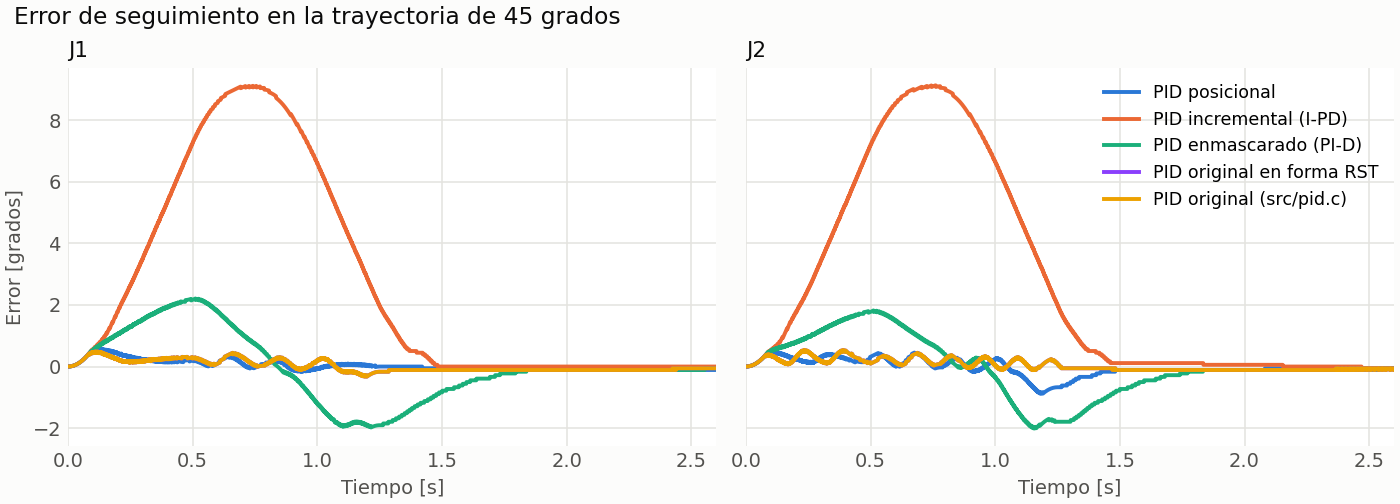
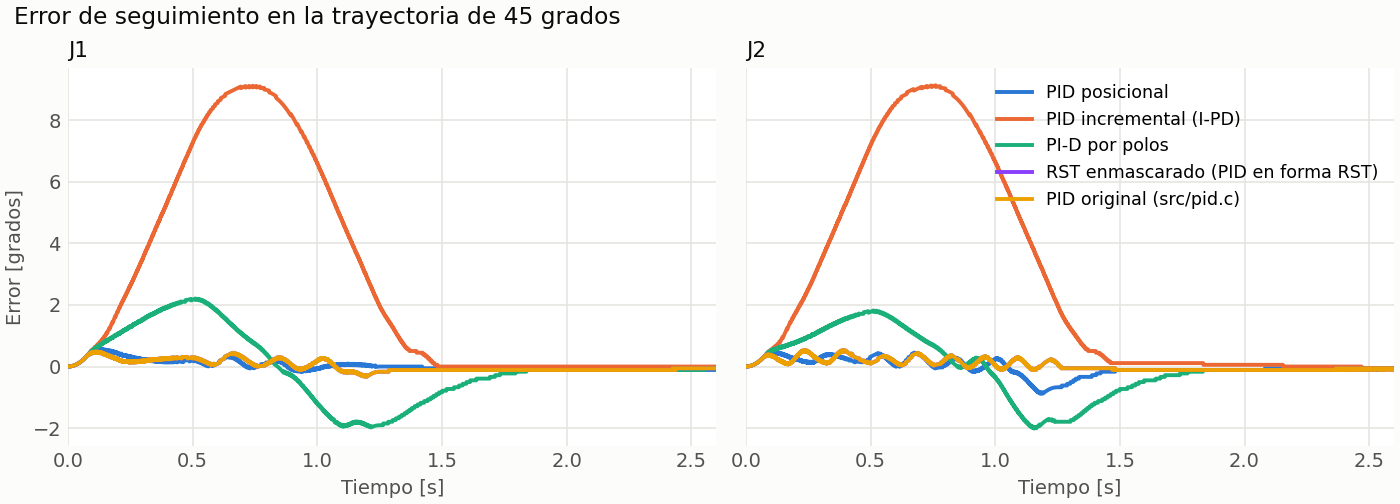
Renombra las formas del RST y actualiza la documentación
El RST enmascarado ahora es el que recibe valores de un PID y por dentro
ejecuta un RST (antes "RST PID original", rstform orig). La forma por polos
que llevaba ese nombre pasa a ser RST PI-D (rstform pi_d). Los índices de
/scara/state no cambian.

README y MANUAL describen el estado actual: el firmware arranca con PID,
resultados de la prueba en el robot, estado de las pruebas y valores vigentes.

Changed region(s): [[0.7064, 0.1488, 0.9829, 0.2976], [0.7064, 0.3869, 0.9829, 0.4167], [0.7064, 0.3274, 0.9829, 0.3571]]

diff --git a/tools/rst/simulate.py b/tools/rst/simulate.py
@@ -28,23 +28,23 @@ K_DESIGN = 0.9974                               # identificado en el laboratorio
 KFF = rd.PWM_PER_VOLT / K_DESIGN                # prealimentación de velocidad = inversa de K [PWM por rad/s]
 AXES = {"J1": {"tau": 0.14, "J_load": 0.04}, "J2": {"tau": 0.10, "J_load": 0.01}}
 # Polos de cada forma: (wn [rad/s], zeta, polos auxiliares [rad/s]).
-SPECS = {"pos": (12.0, 0.9, (8.0, 60.0)), "mask": (12.0, 0.9, (8.0, 60.0)), "inc": (15.0, 0.9, (40.0, 60.0))}
+SPECS = {"pos": (12.0, 0.9, (8.0, 60.0)), "pi_d": (12.0, 0.9, (8.0, 60.0)), "inc": (15.0, 0.9, (40.0, 60.0))}
 PID_OLD = (5000.0, 3000.0, 180.0, 80.0)         # el PID original del firmware: su PWM es el que funcionaba en el robot
-ORIG = rd.pid_as_rst(*PID_OLD, VEL_TAU, TS)
+MASK_PID = rd.pid_as_rst(*PID_OLD, VEL_TAU, TS)
 FOLLOW_ERR_DEG = math.degrees(0.20)             # sobre esto el firmware declara falla
 HOLD_TOL_DEG = 0.4
 AMP = math.radians(45.0)
 STEP = math.radians(10.0)
 DIST_NM = 0.8
-SERIES = {"pos": "#2a78d6", "inc": "#eb6834", "mask": "#1baf7a", "orig": "#8a3ffc", "pid": "#eda100"}
+SERIES = {"pos": "#2a78d6", "inc": "#eb6834", "pi_d": "#1baf7a", "mask": "#8a3ffc", "pid": "#eda100"}
 LABEL = dict(rd.FORM_NAMES, pid="PID original (src/pid.c)")
 INK, MUTED, GRID = "#0b0b0b", "#52514e", "#e4e3df"
 ROBUST = [(jl, tc) for jl in (0.25, 1.0, 2.5) for tc in (0.5, 1.0, 1.5)]   # inercia del eslabón y fricción seca
 
 
-def design_orig(ax):
-    """El RST del PID original: no se piden polos, se calculan los que resultan con el modelo de diseño."""
-    kp, ki, kd, s1, kff = ORIG
+def design_mask(ax):
+    """El RST enmascarado: no se piden polos, se calculan los que resultan con el modelo de diseño."""
+    kp, ki, kd, s1, kff = MASK_PID
     A, B = rd.plant(K_DESIGN, AXES[ax]["tau"], TS)
     R, S, _ = rd.polys(kp, ki, kd, s1, 1.0, 1.0, TS)
     return {"A": A, "B": B, "R": R, "S": S, "s1": s1, "kp": kp, "ki": ki, "kd": kd, "kff": kff, "K": K_DESIGN,
@@ -55,7 +55,7 @@ def design_all():
     out = {}
     for ax in AXES:
         out[ax] = {f: dict(rd.design_joint(K_DESIGN, AXES[ax]["tau"], TS, *SPECS[f]), kff=KFF) for f in SPECS}
-        out[ax]["orig"] = design_orig(ax)
+        out[ax]["mask"] = design_mask(ax)
     return out
 
 
@@ -153,13 +153,13 @@ def pick_winner(robust, pwm):
 
 
 def write_header(des, winner):
-    names = {"pos": "RST_FORM_POS", "inc": "RST_FORM_INC", "mask": "RST_FORM_MASK", "orig": "RST_FORM_ORIG"}
+    names = {"pos": "RST_FORM_POS", "inc": "RST_FORM_INC", "pi_d": "RST_FORM_PI_D", "mask": "RST_FORM_MASK"}
     with open(os.path.join(ROOT, "src", "rst_defaults.h"), "w") as f:
         f.write("/* Generado por tools/rst/simulate.py: no editar a mano. Ver docs/rst/REPORTE_RST.md. */\n#pragma once\n")
         f.write("/* Forma con mejor resultado en la simulación */\n#define RST_FORM_DEFAULT %s\n\n" % names[winner])
-        f.write("/* [forma: pos, inc, mask, orig][eje] = { kp, ki, kd, s1, kff }   (PWM/rad, Ts = 1 ms) */\n")
+        f.write("/* [forma: pos, inc, pi_d, mask][eje] = { kp, ki, kd, s1, kff }   (PWM/rad, Ts = 1 ms) */\n")
         f.write("static const float RST_GAINS[4][2][5] = {\n")
-        for fm in ("pos", "inc", "mask", "orig"):
+        for fm in ("pos", "inc", "pi_d", "mask"):
             f.write("    { ")
             f.write(", ".join("{ %.3ff, %.3ff, %.5ff, %.7ff, %.3ff }" % gains(des[ax][fm]) for ax in AXES))
             f.write(" },\n")
@@ -184,7 +184,7 @@ def write_report(des, res, robust, margins, winner, ok, pwm):
 
 Generado por `python3 tools/rst/simulate.py`. Todos los números salen de ese programa.
 
-**Forma elegida para el robot: %s.** Todo es simulación: falta medir en el robot la inercia de los eslabones y repetir estas pruebas.
+**Forma elegida para el robot: %s.** Este reporte es solo simulación y usa parámetros anteriores a la calibración actual. La prueba en el robot está resumida en el README.
 
 ## 1. Planta
 
@@ -233,9 +233,10 @@ R y S salen de la ecuación diofántica `A S + B R = P`, con P dado por los polo
 |---|---|---|---|
 | PID posicional | 1 | 1 | P, I y D actúan sobre el error |
 | PID incremental (I-PD) | 0 | 0 | Solo I actúa sobre el error; P y D sobre la medición |
-| PID enmascarado (PI-D) | 1 | 0 | La consigna queda fuera del término D |
+| PI-D por polos | 1 | 0 | La consigna queda fuera del término D |
+| RST enmascarado (PID en forma RST) | 1 | 0 | Se ingresan valores de un PID y corre un RST con los polinomios equivalentes |
 
-> **Por confirmar con el profesor:** "masked PID" no aparece en los apuntes del curso ni en la búsqueda web. PI-D es una interpretación propia. Si la definición es otra, se cambia `FORMS` en `rst_design.py` y se vuelve a generar este reporte.
+> **Por confirmar con el profesor:** el equipo definió el RST enmascarado como el que recibe valores de un PID y por dentro ejecuta un RST. Si la definición es otra, se cambia `FORMS` en `rst_design.py` y se vuelve a generar este reporte.
 
 **Convención:** este reporte usa la de Landau. Algunos libros intercambian los nombres de R y S.
 
@@ -246,11 +247,11 @@ R y S salen de la ecuación diofántica `A S + B R = P`, con P dado por los polo
     for ax in AXES:
         for f in rd.FORMS:
             d = des[ax][f]
-            spec = ("%.0f rad/s, %.1f, %s rad/s" % (d["wn"], d["zeta"], d["aux"])) if d["wn"] else "Resultan del PID original"
+            spec = ("%.0f rad/s, %.1f, %s rad/s" % (d["wn"], d["zeta"], d["aux"])) if d["wn"] else "Resultan de los valores del PID"
             rows.append([ax, LABEL[f], spec, "%.0f" % d["kp"], "%.0f" % d["ki"],
                          "%.2f" % d["kd"], "%.4f" % d["s1"], "%.1f" % d["kff"], "%.5f" % margins[ax][f]])
     L.append(table(rows))
-    L.append("\n\nLas tres primeras formas salen de la asignación de polos. La incremental lleva polos más rápidos a propósito: su error en rampa es Kp/Ki por la velocidad, y con los polos de las otras dos pasaría el límite de falla del firmware en un movimiento normal.\n\nLa cuarta no se diseñó con polos: es `src/pid.c` escrito como RST, con `s1 = -tau_v/(tau_v + Ts)`, `Kd_RST = Kd (1 + s1)` y `Kff_RST = Kff + Kd`, donde tau_v = 10 ms es el filtro de velocidad del firmware. Sus polos nominales de J1 son %s.\n\nTodos los valores de la última columna deben ser menores que 1 para que el lazo siga estable.\n\nCoeficientes (potencias crecientes de q^-1):\n\n" % ", ".join("%.5f" % abs(p) for p in sorted(des["J1"]["orig"]["poles"], key=abs)))
+    L.append("\n\nLas tres primeras formas salen de la asignación de polos. La incremental lleva polos más rápidos a propósito: su error en rampa es Kp/Ki por la velocidad, y con los polos de las otras dos pasaría el límite de falla del firmware en un movimiento normal.\n\nLa cuarta no se diseñó con polos: es `src/pid.c` escrito como RST, con `s1 = -tau_v/(tau_v + Ts)`, `Kd_RST = Kd (1 + s1)` y `Kff_RST = Kff + Kd`, donde tau_v = 10 ms es el filtro de velocidad del firmware. Sus polos nominales de J1 son %s.\n\nTodos los valores de la última columna deben ser menores que 1 para que el lazo siga estable.\n\nCoeficientes (potencias crecientes de q^-1):\n\n" % ", ".join("%.5f" % abs(p) for p in sorted(des["J1"]["mask"]["poles"], key=abs)))
     rows = [["Eje", "Forma", "R", "S", "T"]]
     for ax in AXES:
         for f, (b, c) in rd.FORMS.items():
@@ -315,14 +316,14 @@ Criterio, en este orden:
 2. Entre las que cumplen, gana la de PWM más parecido al del PID original, que es el que funcionó en el robot.
 
 """ % (0.8 * FOLLOW_ERR_DEG, HOLD_TOL_DEG))
-    rows = [["Forma", "Cumple el criterio 1", "Peor error de seguimiento [grados]", "Diferencia de PWM frente al original, peor eje: rms / máxima"]]
+    rows = [["Forma", "Cumple el criterio 1", "Peor error de seguimiento [grados]", "Diferencia de PWM frente al PID original, peor eje: rms / máxima"]]
     for f in rd.FORMS:
         rows.append([LABEL[f], "Sí" if ok[f] else "No", "%.2f" % max(robust[ax][f]["e_seg"] for ax in AXES),
                      "%.1f / %.1f" % (max(pwm[ax][f][0] for ax in AXES), max(pwm[ax][f][1] for ax in AXES))])
     L.append(table(rows))
     L.append("""
 
-**Resultado: %s.** Es el valor por defecto en el firmware. Las otras formas se eligen con `rstform`, y `pid.c` sigue disponible con `ctrl pid`. El segundo criterio lo pidió el dueño del robot: el PWM del firmware original funcionaba bien. Sin él, ganaría la forma de menor error de seguimiento en la tabla.
+**Resultado: %s.** Es la forma que se carga al activar el RST; el firmware arranca con PID (`src/config.h`). Las otras formas se eligen con `rstform`, y `pid.c` sigue disponible con `ctrl pid`. El segundo criterio lo pidió el dueño del robot: el PWM del firmware original funcionaba bien. Sin él, ganaría la forma de menor error de seguimiento en la tabla.
 
 ## 7. Límites de este resultado
 

diff --git a/tools/host_tests/sim_control.c b/tools/host_tests/sim_control.c
@@ -143,11 +143,11 @@ int main(void)
     motor_dir_fisico[1] = -motor_dir_fisico[1];                      /* se restaura */
 
     /* ============ 6) Las tres formas del RST y el PID de respaldo ============ */
-    printf("\n== ESCENARIO 6: RST posicional, incremental y enmascarado; PID de respaldo ==\n");
-    for (int f = 0; f <= RST_FORM_ORIG + 1; f++) {
+    printf("\n== ESCENARIO 6: RST posicional, incremental, PI-D y enmascarado; PID de respaldo ==\n");
+    for (int f = 0; f <= RST_FORM_MASK + 1; f++) {
         reset_sim(); enc_desconectado[0] = enc_desconectado[1] = false; correr(0.3, "boot", false);
-        const char *nom = f == RST_FORM_ORIG + 1 ? "PID" : RST_FORM_NAME[f];
-        if (f == RST_FORM_ORIG + 1) ctl_cmd_ctrl(CTRL_PID); else ctl_cmd_rstform((rst_form_t)f);
+        const char *nom = f == RST_FORM_MASK + 1 ? "PID" : RST_FORM_NAME[f];
+        if (f == RST_FORM_MASK + 1) ctl_cmd_ctrl(CTRL_PID); else ctl_cmd_rstform((rst_form_t)f);
         correr(0.01, "cfg", false);
         ctl_cmd_home(); correr(120, "home", false);
         CHECK(S.mode == M_HOLD && S.homed[0] && S.homed[1], "%s: Home completo", nom);
@@ -401,7 +401,7 @@ int main(void)
         ctl_cmd_ctrl(CTRL_PID); correr(0.05, "c", false);
         ctl_cmd_home(); for (int t = 0; t < 45000 && !(S.mode == M_HOLD && S.homed[0] && S.homed[1]); t++) correr(0.001, "home", false);
         rst_ctl_t par[NJ];
-        for (int j = 0; j < NJ; j++) { rst_cargar(j, RST_FORM_ORIG); par[j] = S.rst[j]; rst_reset(&par[j], S.q[j]); pid_reset(&S.pid[j]); S.qdref[j] = 0; S.qd[j] = 0; }
+        for (int j = 0; j < NJ; j++) { rst_cargar(j, RST_FORM_MASK); par[j] = S.rst[j]; rst_reset(&par[j], S.q[j]); pid_reset(&S.pid[j]); S.qdref[j] = 0; S.qd[j] = 0; }
         float q[2] = { 0.6f, 1.2f };
         ctl_cmd_move(q, (float[]){NAN, NAN, NAN});
         double dmax = 0, sum = 0; int nn = 0;

diff --git a/tools/rst/rst_design.py b/tools/rst/rst_design.py
@@ -28,12 +28,12 @@ import numpy as np
 PWM_PER_VOLT = 1023.0 / 12.0
 
 # (b, c): pesos de la consigna en P y en D.
-# "mask" es una definición PROVISIONAL (PI-D: la consigna queda "enmascarada" del término derivativo):
-# el término "masked PID" no aparece en los apuntes del curso; si el profesor lo define distinto, se cambia aquí.
-# "orig" es el PID original del firmware escrito como RST: da el mismo PWM (ver pid_as_rst).
-FORMS = {"pos": (1.0, 1.0), "inc": (0.0, 0.0), "mask": (1.0, 0.0), "orig": (1.0, 0.0)}
-FORM_NAMES = {"pos": "PID posicional", "inc": "PID incremental (I-PD)", "mask": "PID enmascarado (PI-D)",
-              "orig": "PID original en forma RST"}
+# "pi_d" sale de la asignación de polos, con la consigna fuera del término derivativo.
+# "mask" es el RST enmascarado: se ingresan valores de un PID y corre un RST con los polinomios equivalentes (ver pid_as_rst).
+# Esta definición de "enmascarado" la escogió el equipo; falta confirmarla con el profesor.
+FORMS = {"pos": (1.0, 1.0), "inc": (0.0, 0.0), "pi_d": (1.0, 0.0), "mask": (1.0, 0.0)}
+FORM_NAMES = {"pos": "PID posicional", "inc": "PID incremental (I-PD)", "pi_d": "PI-D por polos",
+              "mask": "RST enmascarado (PID en forma RST)"}
 
 
 def plant(K, tau, Ts):
@@ -97,7 +97,7 @@ def polys(kp, ki, kd, s1, b, c, Ts, kff=0.0):
 
 
 def pid_as_rst(kp, ki, kd, kff, tau_vel, Ts):
-    """El PID de src/pid.c como RST exacto -> (kp, ki, kd, s1, kff) para usar con los pesos de FORMS["orig"].
+    """El PID de src/pid.c como RST exacto -> (kp, ki, kd, s1, kff) para usar con los pesos de FORMS["mask"].
 
     pid.c deriva la medición con un filtro de primer orden tau_vel y toma la velocidad de la consigna sin filtrar:
         u = Kff vr + Kp e + Kd (vr - v_filtrada) + I

diff --git a/src/uros_cmd.c b/src/uros_cmd.c
@@ -74,9 +74,9 @@ bool uros_cmd_exec(const char *line, char *reply, size_t n)
             snprintf(reply, n, "#ERROR: usa ctrl pid|rst"); return false;
         }
         if (sscanf(l, "rstform %7s", w) == 1) {
-            int fm = !strcmp(w, "pos") ? RST_FORM_POS : !strcmp(w, "inc") ? RST_FORM_INC : !strcmp(w, "mask") ? RST_FORM_MASK : !strcmp(w, "orig") ? RST_FORM_ORIG : -1;
+            int fm = !strcmp(w, "pos") ? RST_FORM_POS : !strcmp(w, "inc") ? RST_FORM_INC : !strcmp(w, "pi_d") ? RST_FORM_PI_D : !strcmp(w, "mask") ? RST_FORM_MASK : -1;
             if (fm >= 0 && ctl_cmd_rstform((rst_form_t)fm)) { snprintf(reply, n, "#OK: forma %s solicitada", RST_FORM_NAME[fm]); return true; }
-            snprintf(reply, n, "#ERROR: usa rstform pos|inc|mask|orig"); return false;
+            snprintf(reply, n, "#ERROR: usa rstform pos|inc|pi_d|mask"); return false;
         }
     }
     if (!strcmp(l, "servo subir") || !strcmp(l, "servo bajar") || sscanf(l, "servo %f", &f[0]) == 1) {
@@ -108,7 +108,7 @@ bool uros_cmd_exec(const char *line, char *reply, size_t n)
         return true;
     }
     if (!strcmp(l, "help")) {
-        snprintf(reply, n, "#INFO: home stop off clear estop goto ang elbow pulse status | motor n on/off | tool pct | m3 home/subir/trabajo/bajar/ir/estado | servo g/subir/bajar | ctrl pid/rst | rstform pos/inc/mask/orig | rst | gain");
+        snprintf(reply, n, "#INFO: home stop off clear estop goto ang elbow pulse status | motor n on/off | tool pct | m3 home/subir/trabajo/bajar/ir/estado | servo g/subir/bajar | ctrl pid/rst | rstform pos/inc/pi_d/mask | rst | gain");
         return true;
     }
     if (sscanf(l, "goto %f %f %f", &f[0], &f[1], &f[2]) == 3) return motion_goto_xyz(f[0], f[1], f[2], reply, n) == MOTION_OK;

diff --git a/tools/rst/test_rst_design.py b/tools/rst/test_rst_design.py
@@ -62,9 +62,9 @@ class TestDesign(unittest.TestCase):
         Ts = {n: rd.polys(self.d["kp"], self.d["ki"], self.d["kd"], self.d["s1"], b, c, TS)
               for n, (b, c) in rd.FORMS.items()}
         np.testing.assert_allclose(Ts["pos"][0], Ts["inc"][0])
-        np.testing.assert_allclose(Ts["pos"][1], Ts["mask"][1])
+        np.testing.assert_allclose(Ts["pos"][1], Ts["pi_d"][1])
         self.assertFalse(np.allclose(Ts["pos"][2], Ts["inc"][2]))
-        self.assertFalse(np.allclose(Ts["pos"][2], Ts["mask"][2]))
+        self.assertFalse(np.allclose(Ts["pos"][2], Ts["pi_d"][2]))
 
     def test_original_pid_becomes_an_exact_rst(self):
         """Mismo PID que src/pid.c: filtro de velocidad de 10 ms a 1 kHz; la consigna de velocidad entra sin filtrar."""
@@ -73,7 +73,7 @@ class TestDesign(unittest.TestCase):
         self.assertAlmostEqual(kd, 180.0 * 0.001 / 0.011, places=9)
         self.assertEqual((kp, ki, kff), (5000.0, 3000.0, 260.0))
         # Referencia: la misma ley escrita como PID, con entradas cualquiera.
-        ctl = rd.RstController(kp, ki, kd, s1, *rd.FORMS["orig"], 0.001, kff=kff)
+        ctl = rd.RstController(kp, ki, kd, s1, *rd.FORMS["mask"], 0.001, kff=kff)
         i = qd = y0 = r0 = 0.0
         for k in range(300):
             r = 0.002 * k if k > 20 else 0.0

diff --git a/tools/host_tests/test_uros_cmd.c b/tools/host_tests/test_uros_cmd.c
@@ -107,9 +107,9 @@ int main(void)
     ok = uros_cmd_exec("ctrl rst", r, sizeof r);      CHECK(ok && last_ctrl == CTRL_RST, "ctrl rst");
     ok = uros_cmd_exec("ctrl x", r, sizeof r);        CHECK(!ok && n_ctrl == 2, "ctrl invalido se rechaza");
     ok = uros_cmd_exec("rstform inc", r, sizeof r);   CHECK(ok && last_form == RST_FORM_INC, "rstform inc");
-    ok = uros_cmd_exec("rstform mask", r, sizeof r);  CHECK(ok && last_form == RST_FORM_MASK, "rstform mask");
+    ok = uros_cmd_exec("rstform pi_d", r, sizeof r);  CHECK(ok && last_form == RST_FORM_PI_D, "rstform pi_d");
     ok = uros_cmd_exec("rstform pos", r, sizeof r);   CHECK(ok && last_form == RST_FORM_POS, "rstform pos");
-    ok = uros_cmd_exec("rstform orig", r, sizeof r);  CHECK(ok && last_form == RST_FORM_ORIG, "rstform orig");
+    ok = uros_cmd_exec("rstform mask", r, sizeof r);  CHECK(ok && last_form == RST_FORM_MASK, "rstform mask");
     n_form = 3;
     ok = uros_cmd_exec("servo 90", r, sizeof r);      CHECK(ok && last_servo == 90.0f, "servo 90");
     ok = uros_cmd_exec("servo subir", r, sizeof r);   CHECK(ok && last_servo == SERVO_ARRIBA_DEG, "servo subir");

diff --git a/ros2/scara_panel.py b/ros2/scara_panel.py
@@ -57,9 +57,9 @@ SHORTCUTS = {QtCore.Qt.Key_H: "home", QtCore.Qt.Key_S: "stop", QtCore.Qt.Key_O: 
              QtCore.Qt.Key_Escape: "stop"}
 RST_FIELDS = ("Kp", "Ki", "Kd", "s1", "b", "c", "Kff")
 PID_FIELDS = ("Kp", "Ki", "Kd", "Kff", "Fric")
-CTRL_LABELS = (("orig", "RST PID original"), ("pos", "RST posicional"), ("inc", "RST incremental"), ("mask", "RST enmascarado"),
+CTRL_LABELS = (("mask", "RST enmascarado"), ("pos", "RST posicional"), ("inc", "RST incremental"), ("pi_d", "RST PI-D"),
                ("pid", "PID anterior"))
-CTRL_BY_NAME = {"RST posicional": "pos", "RST incremental": "inc", "RST enmascarado": "mask", "RST PID original": "orig", "PID": "pid"}
+CTRL_BY_NAME = {"RST posicional": "pos", "RST incremental": "inc", "RST PI-D": "pi_d", "RST enmascarado": "mask", "PID": "pid"}
 HOLE_COLS = ("Hueco", "Estado", "Prof. mm", "Avance %", "Torque N·m", "Fuerza N", "Presión MPa", "Corriente A")
 HOLE_FIELDS = ("prof", "avance", "torque", "fuerza", "presion", "corriente")
 HOLE_FMT = {"prof": "%.2f", "avance": "%.0f", "torque": "%.3f", "fuerza": "%.0f", "presion": "%.1f", "corriente": "%.2f"}

diff --git a/src/comms.c b/src/comms.c
@@ -90,7 +90,7 @@ static void print_help(void)
            "  proceso pcb p [n]       solo la PCB p: 1 = A, 2 = B, 3 = C, 4 = D\n"
            "  proceso ensayo [pcb p] [n]   los mismos huecos sin mover el servo; M3 baja hasta 6 mm\n"
            "  proceso lista [pcb p]   imprime los pasos sin mover nada\n"
-           "  ctrl pid|rst            controlador activo;  rstform pos|inc|mask  forma del RST\n"
+           "  ctrl pid|rst            controlador activo;  rstform pos|inc|pi_d|mask  forma del RST\n"
            "  rst                     ver el RST;  rst j kp ki kd s1 b c kff  para cambiarlo\n"
            "  gain                    ver ganancias;  gain j kp ki kd kff fric  para cambiarlas (j = 1 o 2)\n"
            "  pulse j                 pulso corto para comprobar el sentido del motor j\n"

diff --git a/src/uros_comms.c b/src/uros_comms.c
@@ -65,7 +65,7 @@
 enum { STATE_Q1_DEG = 0, STATE_Q2_DEG, STATE_X, STATE_Y, STATE_MODE, STATE_FAULT, STATE_HOMED1, STATE_HOMED2,
        STATE_FC_BITS, STATE_QREF1_DEG, STATE_QREF2_DEG, STATE_DUTY1, STATE_DUTY2,
        STATE_EN_BITS,      /* bit 0 = J1, bit 1 = J2, bit 2 = M3 activos */
-       STATE_CTRL,         /* 0 = PID; 1..5 = RST posicional, incremental, enmascarado, PID original, a medida */
+       STATE_CTRL,         /* 0 = PID; 1..5 = RST posicional, incremental, PI-D, enmascarado, a medida */
        STATE_TOOL,         /* PWM de M3 */
        /* Atornillado. Calculado con el modelo de M3: no hay sensor de corriente. */
        STATE_TOOL_I, STATE_TOOL_TORQUE, STATE_TOOL_FUERZA, STATE_TOOL_PRESION, STATE_TOOL_VUELTAS, STATE_TOOL_PROF,

diff --git a/src/rst.h b/src/rst.h
@@ -7,7 +7,8 @@
  *     T = b Kp (1 - q^-1)(1 + s1 q^-1) + Ki Ts (1 + s1 q^-1) + c (Kd/Ts)(1 - q^-1)^2 + (Kff/Ts) S (1 - q^-1)
  *
  * El último término de T es la prealimentación de velocidad: no cambia polos ni ganancia estática.
- * (b, c) eligen cómo entra la consigna:  posicional (1,1), incremental I-PD (0,0), enmascarado PI-D (1,0).
+ * (b, c) eligen cómo entra la consigna:  posicional (1,1), incremental I-PD (0,0), PI-D (1,0).
+ * El enmascarado usa (1,0) con ganancias de PID: se ingresan valores de PID y corre un RST.
  * r e y en rad; u en cuentas de PWM.  Diseño y simulaciones: tools/rst/ y docs/rst/REPORTE_RST.md.
  *
  * Anti-windup: la historia de u guarda u ya saturada, así que el integrador contenido en S no se enrolla.

diff --git a/src/rst_defaults.h b/src/rst_defaults.h
@@ -1,9 +1,9 @@
 /* Generado por tools/rst/simulate.py: no editar a mano. Ver docs/rst/REPORTE_RST.md. */
 #pragma once
 /* Forma con mejor resultado en la simulación */
-#define RST_FORM_DEFAULT RST_FORM_ORIG
+#define RST_FORM_DEFAULT RST_FORM_MASK
 
-/* [forma: pos, inc, mask, orig][eje] = { kp, ki, kd, s1, kff }   (PWM/rad, Ts = 1 ms) */
+/* [forma: pos, inc, pi_d, mask][eje] = { kp, ki, kd, s1, kff }   (PWM/rad, Ts = 1 ms) */
 static const float RST_GAINS[4][2][5] = {
     { { 2779.435f, 9938.865f, 14.65242f, -0.9201301f, 85.472f }, { 2055.329f, 7361.250f, 8.70360f, -0.9228635f, 85.472f } },
     { { 8120.400f, 52906.729f, 43.01584f, -0.8849445f, 85.472f }, { 5939.246f, 38748.353f, 28.06740f, -0.8876284f, 85.472f } },

diff --git a/ros2/scara_link.py b/ros2/scara_link.py
@@ -18,7 +18,7 @@ JOG_HZ = 25
 MODES = ("OFF", "HOMING", "HOLD", "MOVE", "JOG", "PULSE", "FAULT")
 FAULTS = ("ninguna", "error de seguimiento", "motor trabado", "final de carrera inesperado", "tiempo de Home agotado",
           "MIN y MAX a la vez", "paro de emergencia")
-CTRLS = ("PID", "RST posicional", "RST incremental", "RST enmascarado", "RST PID original", "RST a medida")
+CTRLS = ("PID", "RST posicional", "RST incremental", "RST PI-D", "RST enmascarado", "RST a medida")
 SCREW_PHASES = ("Sin atornillar", "Rápido", "Lento", "Apriete", "Terminado")
 F_ESTOP = 6
 ST_MODE_FAULT = 6
